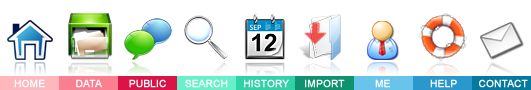
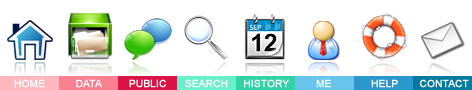
this fixes #3019
git-svn-id: file:///home/svn/omero/trunk@8368 05709c45-44f0-0310-885b-81a1db45b4a6

Former-commit-id: e20455010d66ead44be87a9a41409e0568fccbf9

diff --git a/components/tools/OmeroWeb/omeroweb/webclient/templates/webclient/base/base_main.html b/components/tools/OmeroWeb/omeroweb/webclient/templates/webclient/base/base_main.html
@@ -35,7 +35,7 @@
                 <li class="contact"><a href="{% url csend %}" title="Contact">{% trans "Contact" %}</a></li>
                 <li class="help"><a href="{% url load_template "help" %}" title="Help">{% trans "Help" %}</a></li>
                 <li class="person"><a href="{% url myaccount %}" title="Person">{% trans "Person" %}</a></li>
-                <li class="import"><!--<a href="{% url load_template "importer" %}" title="Import">{% trans "Import" %}</a>--></li>
+                <!--<li class="import"><a href="{% url load_template "importer" %}" title="Import">{% trans "Import" %}</a></li>-->
                 <li class="history"><a href="{% url load_template "history" %}" title="History">{% trans "History" %}</a></li>
                 <li class="search"><a href="{% url load_template "search" %}" title="Search">{% trans "Search" %}</a></li>
                 <li class="public"><a href="{% url load_template "public" %}" title="Public">{% trans "Public" %}</a></li>
